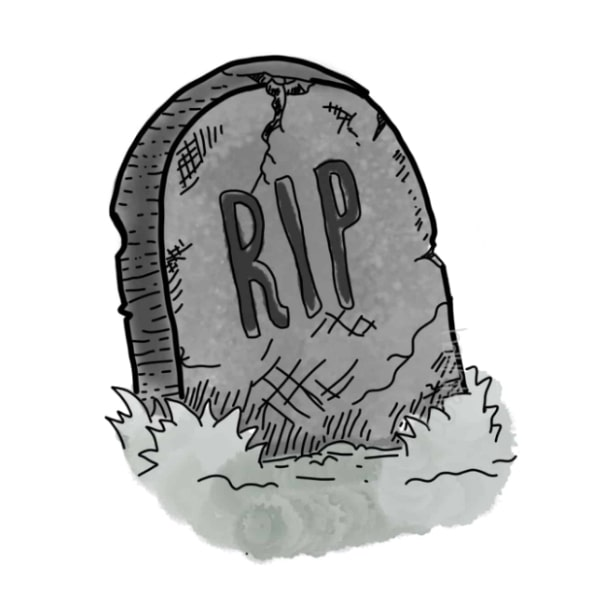
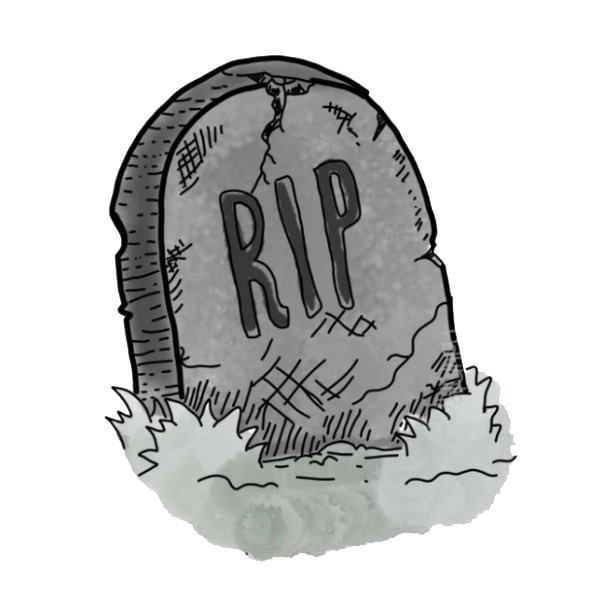
add tombstone png

diff --git a/src/components/Pet.css b/src/components/Pet.css
@@ -7,32 +7,32 @@
 }
 
 .pet-img {
-    width: 8em;
-    height: 8em;
+    width: 12em;
+    height: 12em;
     mix-blend-mode: multiply;
     animation:  move 8s ease-in-out infinite ;
 }
 
 .tomb-img{
-    width: 10em;
-    height: 10em;
-    mix-blend-mode: multiply;
+    width: 12em;
+    height: 12em;
+    /* mix-blend-mode: multiply; */
     animation: tombmove 20s ease-in-out infinite;
     border: none;
 }
 
 
 @keyframes move {
-    0% { transform: translate(10vw , -30vh) scaleX(1) ;}
-    49% {transform: translate(calc(90vw - 8em), -30vh) scaleX(1);}
-    50% { transform: translate(calc(90vw - 8em), -30vh) scaleX(-1) ;}
-    99% {transform: translate(10vw , -30vh) scaleX(-1);}
-    100% { transform: translate(10vw , -30vh) scaleX(1);}
+    0% { transform: translate(10vw , -20vh) scaleX(1) ;}
+    49% {transform: translate(calc(90vw - 8em), -20vh) scaleX(1);}
+    50% { transform: translate(calc(90vw - 8em), -20vh) scaleX(-1) ;}
+    99% {transform: translate(10vw , -20vh) scaleX(-1);}
+    100% { transform: translate(10vw , -20vh) scaleX(1);}
 
 }
 @keyframes tombmove {
-    0% { transform: translate(10vw , -30vh)  ;}
-    50% { transform: translate(calc(90vw - 8em), -30vh)  ;}
-    100% { transform: translate(10vw , -30vh);}
+    0% { transform: translate(10vw , -20vh)  ;}
+    50% { transform: translate(calc(90vw - 8em), -20vh)  ;}
+    100% { transform: translate(10vw , -20vh);}
 
 }

diff --git a/src/App.js b/src/App.js
@@ -32,7 +32,7 @@ function App() {
   
 
   return (
-    <div className="container">
+    <div className={hunger <= 0 ? "container graveyard" : "container"}>
       <header />
       {hunger <= 0 ? <button onClick={newPet}>Start Again!</button> : null}
       <FoodOptions hunger={hunger} setHunger={setHunger} />
@@ -41,7 +41,8 @@ function App() {
         <Pet name={petName} hunger={hunger}/>
       </div>
     </div>
-  );
+    
+  )
 }
 
 export default App;

diff --git a/src/App.css b/src/App.css
@@ -3,9 +3,13 @@
   background-image: url("./assets/neopets-backgrounds.jpg");
   background-size: cover;
   background-position: center bottom;
-  background-blend-mode: multiply;
   display: flex;
   flex-direction: column;
   justify-content: flex-end;
   align-items: center;
+}
+
+.graveyard {
+  background-color: black;
+  background-image: url("./assets/graveyard.png");
 }

diff --git a/src/components/Pet.js b/src/components/Pet.js
@@ -2,7 +2,7 @@ import React from "react";
 
 import {getPetData} from "../utils/getPetData";
 import "./Pet.css";
-import tombstone from '../assets/tombstone.jpg';
+import tombstone from '../assets/tombstone.png';
 
 const Pet = props => {
   const name = props.name;
